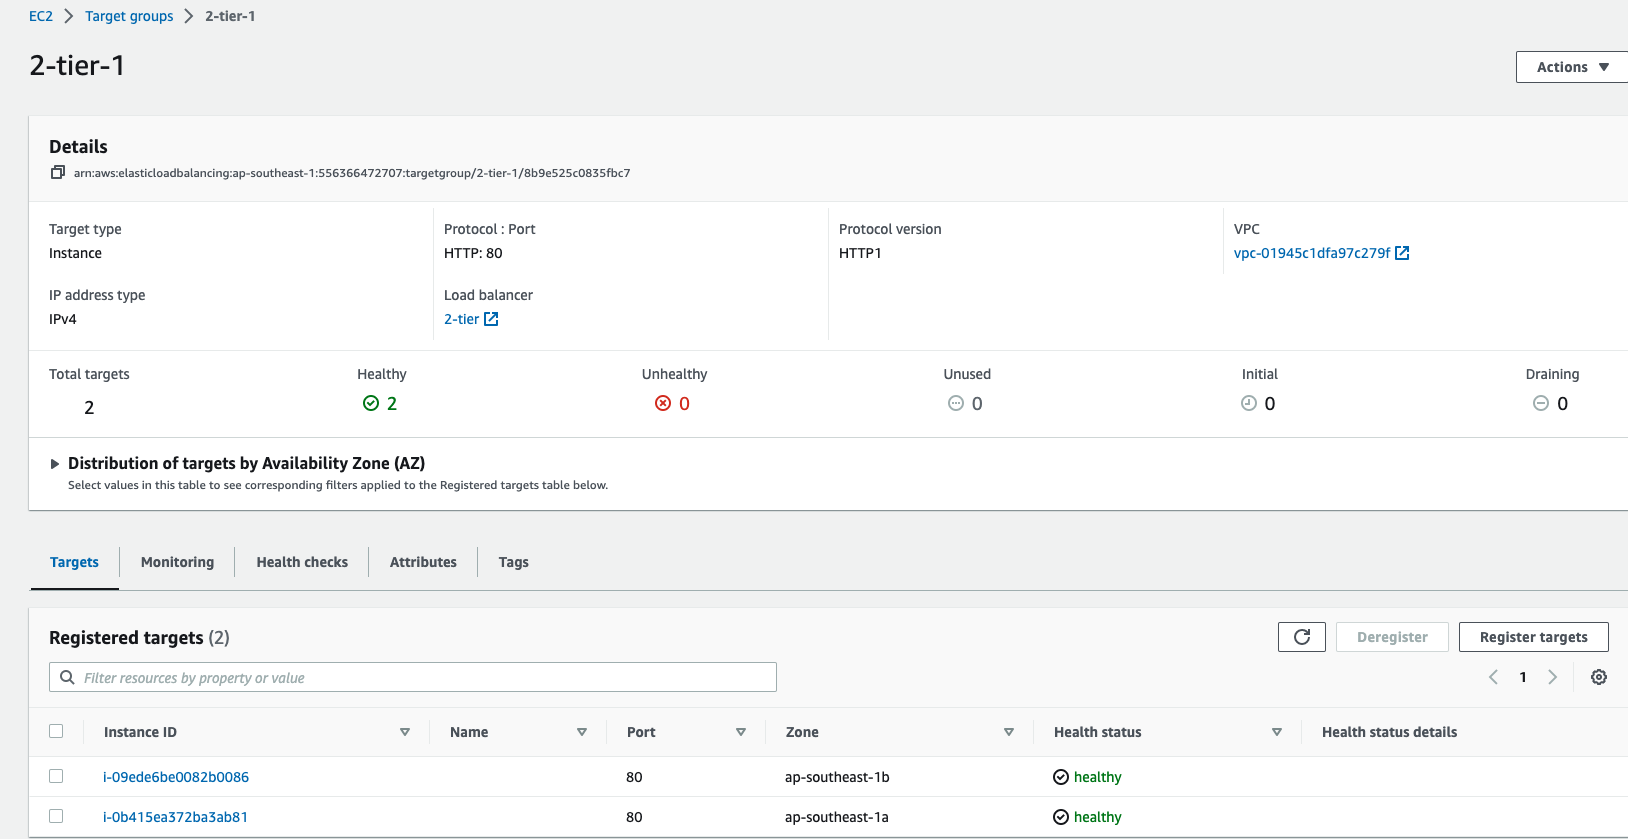
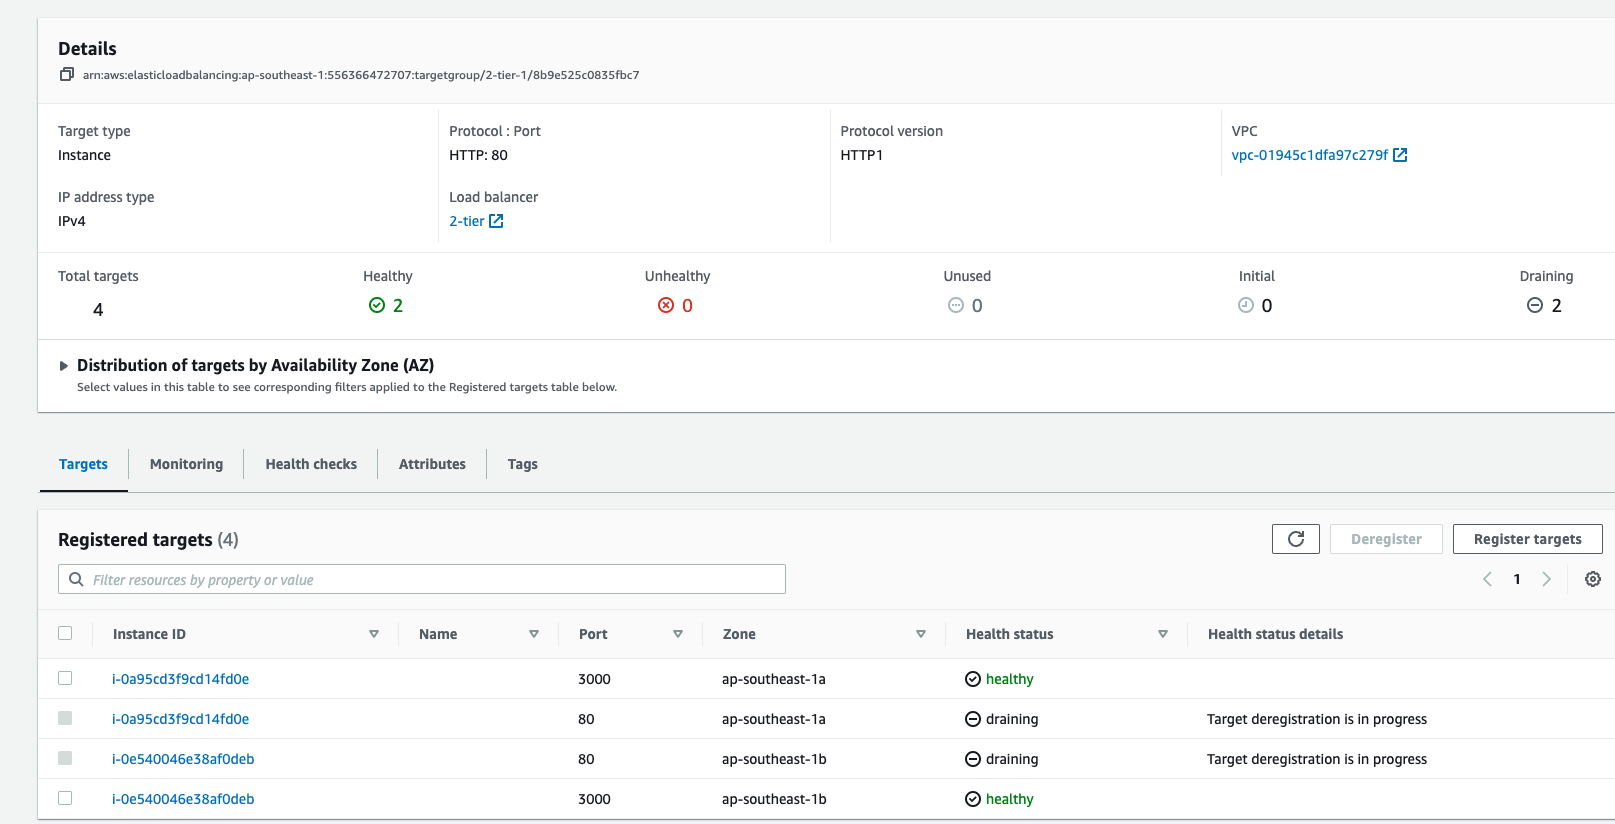
feature(demo): deploy done, need add WAF later

diff --git a/2-tier/README.md b/2-tier/README.md
@@ -20,4 +20,11 @@
 ### Cloudfront
 <img src="./cloudfront.png"/>
 
+### WAF
+- Update later
+
 ### Demo
+<img src="./deploy.png"/>
+
+### Link
+[Demo](http://2-tier-1668536003.ap-southeast-1.elb.amazonaws.com/home)
